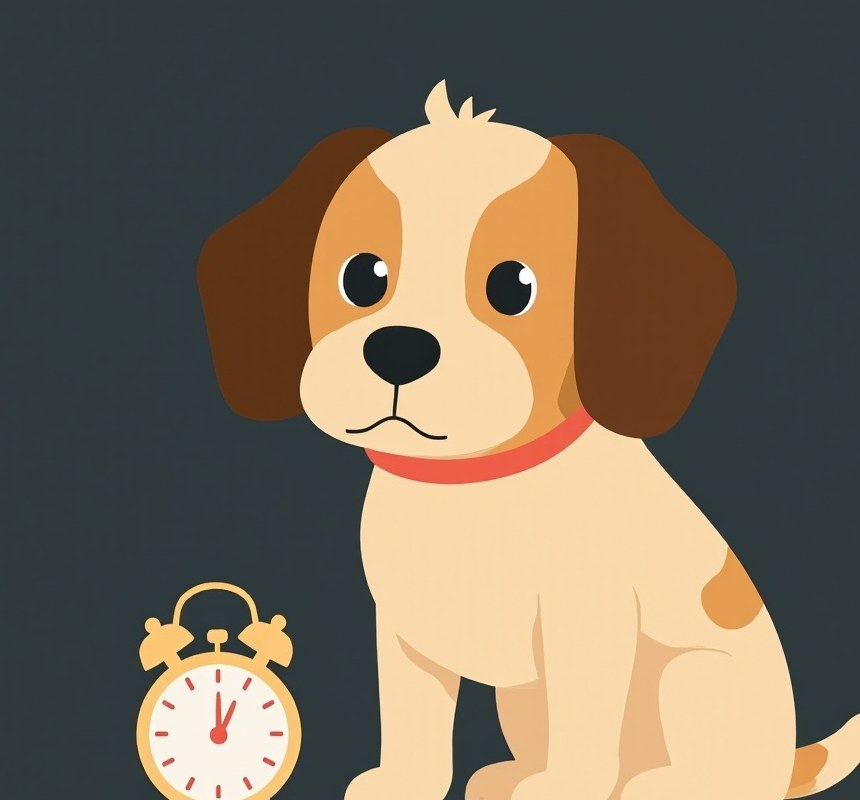
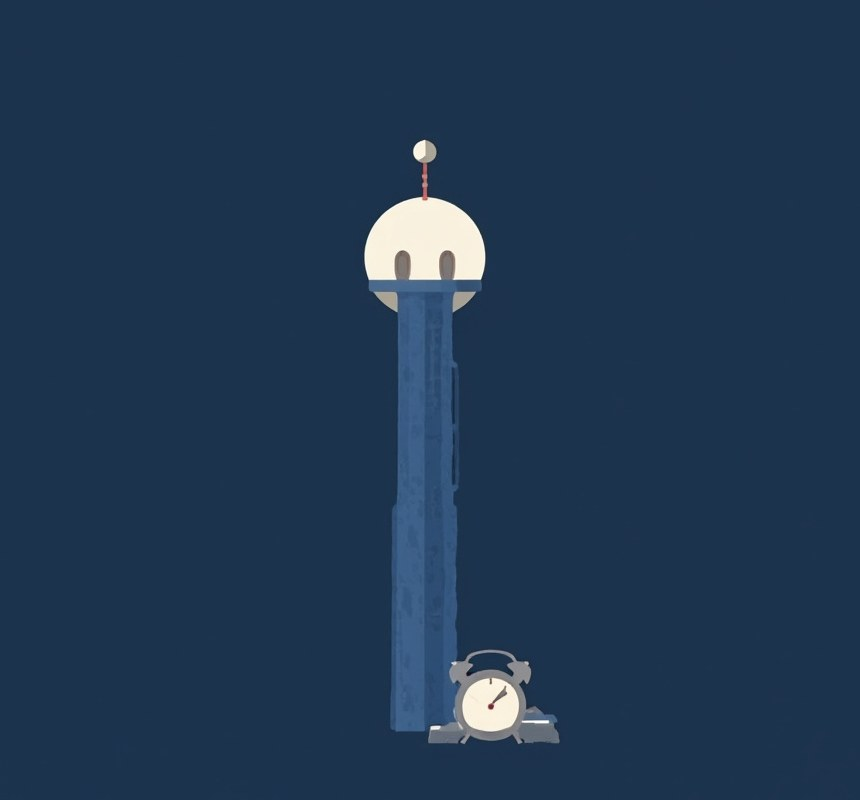
ip: switch brand mascot from pastel pup to geometric signal tower (A1)
User feedback: the cute pastel puppy clashed with the site's quiet,
precise, tool-like tone. Round 2 proposed three geometric directions
(signal tower / paper plane / winged envelope) x 2 + 2 strict retries;
A1 tower selected as the only candidate meeting the character + dark
zinc + indigo contract. Chapter scenes redrawn with A1 as subject-ref
(checklist / lighthouse+clock / lamp hub / book+star), watermarks
cropped, mascot and favicon swapped. All candidates preserved in temp.

diff --git a/research/09-ip-candidates.md b/research/09-ip-candidates.md
@@ -43,3 +43,21 @@
 - **四章吉祥物插图**（`public/ip/chapter-{delegate,automate,connect,reuse}.jpg`）：以 C1 为 `--subject-ref` 生成的同角色场景图（清单/闹钟/插头/书本），用于 demo 下方四章说明，每章配 Phosphor 图标。
 - **Connections 扩建到 24 个集成**（新增 13 个品牌：GitLab/Jira/Confluence/Figma/Discord/Netlify/Railway/Expo/Supabase/Neon/Airtable/PostHog/Mixpanel/Docker/Google Cloud，含 Design/Data 两个新分类），Connected 计数改为动态计算。
 - **部署裁切**：mmx 输出角落实测带极小渠道水印文字（`©UHD …Photvt.com` 等，pipeline 里被 pipeline 发现），已用 sharp 统一裁去四边 8% 区域（`temp/assets/crop-watermarks.mjs`）；候选原图未动。后续 mmx 产物上线前一律走此裁切。
+
+## IP 第二轮（2026-10-05 傍晚）：风格转向「几何/工具向」
+
+用户反馈：奶萌暖色小狗与站点 "quiet, precise, tool-like" 气质不合，要求风格大不一样。按 `ip-as-logo` 重新提案三个几何向方向，各 2 张（+2 张定向补画）：
+
+| 标签 | 方向 | 角落 | 配色 | 结果 |
+| --- | --- | --- | --- | --- |
+| A1 | 信号塔信使 | 左/中 | #6366f1 + #eef0f6 / 底 #101014 | **✅ 选定为新品牌 IP** |
+| A2 | 信号旗杆（无眼，物件非角色） | 右下 | off-white + 琥珀 / 深底 | 备选（物件向） |
+| B1/B2 | 纸飞机信使 | 左/右 | — | 弃选：底色被模型跑偏成浅灰 |
+| C1/C2 | 飞翼信封 | 左/右 | — | 弃选：底色被模型跑偏成浅蓝 |
+| A3/A4 | 信号塔严格补画 | 左 | — | 弃选：构图/四色控制不住；候选保留 |
+
+**A1 入选理由**：唯一同时满足「角色（有眼）+ 深锌底 + indigo/白 + 几何工具感」；小偏差（居中构图、嘴线、天线灯一点琥珀作信号色）由品牌侧接受。**产品隐喻也最准**：信号塔 = 派单中枢，正是 relay 的 chief 调度定位。
+
+**部署**：`public/ip/mascot.jpg`（chief 头像）+ `app/icon.jpg`（favicon）已换成 A1；四章场景图用 A1 作 `--subject-ref` 重画（清单/灯塔+闹钟/三灯枢纽/书+星）并同路径替换。旧小狗版保留在 `temp/assets/gen/ip/` 备回退。
+
+**教训**：mmx 对「hex 指定背景色」遵循不稳定（第二轮 4/6 跑偏成浅色），下单时要预期返工；素材上线前必须过水印裁切。
